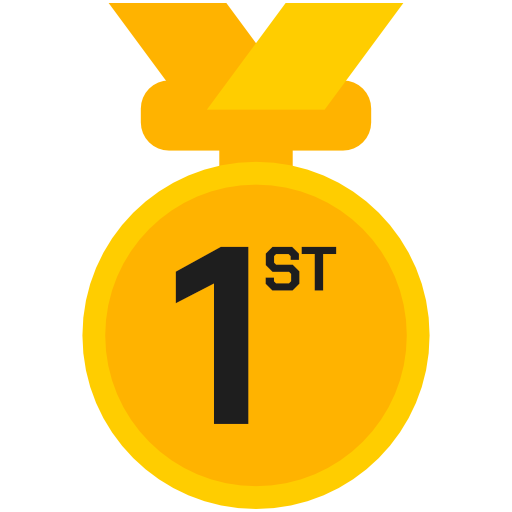
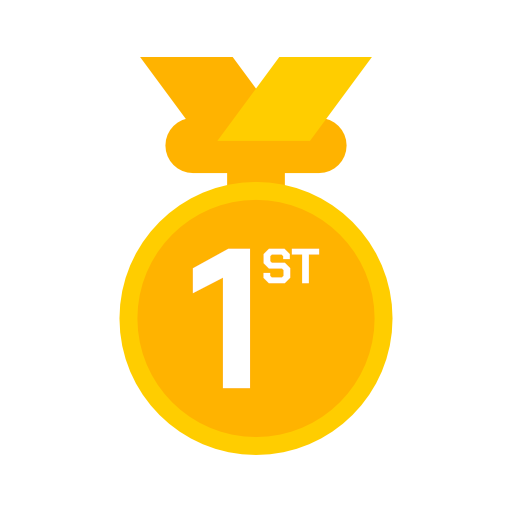
Created achievement for completing an exercise for the first time

diff --git a/hooks/useUpdateCurrentWorkoutAchievements.ts b/hooks/useUpdateCurrentWorkoutAchievements.ts
@@ -1,77 +1,87 @@
-import ExercisePerformanceData from "@/interfaces/ExercisePerformanceData"
-import useCurrentWorkoutStore from "./useCurrentWorkoutStore";
 import { AchievementType } from "@/enums/achievement-type";
-import useCalculateMaxes from "./useCalculateMaxes";
-import { storage } from "@/storage";
 import ExerciseDefinition from "@/interfaces/ExerciseDefinition";
+import ExercisePerformanceData from "@/interfaces/ExercisePerformanceData";
+import useCalculateMaxes from "./useCalculateMaxes";
 import useCalculateVolume from "./useCalculateVolume";
+import useCurrentWorkoutStore from "./useCurrentWorkoutStore";
+import useStorage from "./useStorage";
 
 
 export default function useUpdateCurrentWorkoutAchievements() {
-    const calculateMaxes = useCalculateMaxes();
-    const calculateVolume = useCalculateVolume();
-    const addAchievement = useCurrentWorkoutStore(state => state.addAchievement);
+  const calculateMaxes = useCalculateMaxes();
+  const calculateVolume = useCalculateVolume();
+  const addAchievement = useCurrentWorkoutStore(state => state.addAchievement);
+  const { fetchFromStorage } = useStorage();
 
-    const updateCurrentWorkoutAchievements = (performanceThisSession: ExercisePerformanceData) => {
-        const exerciseDataString = storage.getString(`data_exercises`);
-        if (!exerciseDataString) {
-            return;
-        }
-
-        const exercises = JSON.parse(exerciseDataString) as ExerciseDefinition[];
-        const currentExercise = exercises.find(exercise => exercise.id === performanceThisSession.exerciseId);
-        
-        if (!currentExercise) {
-            return;
-        }
-
-        const [sessionOneRepMaxInKg, sessionEstimated1rmInKg] = calculateMaxes(performanceThisSession, 'kg');
-
-        const currentTimestamp = Date.now();
-
-        if (sessionOneRepMaxInKg > (currentExercise.oneRepMaxInKg ?? 0)) {
-            addAchievement({
-                type: AchievementType.OneRepMax,
-                exerciseId: performanceThisSession.exerciseId,
-                value: {
-                    weight: sessionOneRepMaxInKg
-                },
-                previousValue: {
-                    weight: currentExercise.oneRepMaxInKg ?? 0
-                },
-                timestamp: currentTimestamp
-            });
-        }
-
-        if (sessionEstimated1rmInKg > (currentExercise.estimatedOneRepMaxInKg ?? 0)) {
-            addAchievement({
-                type: AchievementType.EstimatedOneRepMax,
-                exerciseId: performanceThisSession.exerciseId,
-                value: {
-                    weight: sessionEstimated1rmInKg
-                },
-                previousValue: {
-                    weight: currentExercise.estimatedOneRepMaxInKg ?? 0
-                },
-                timestamp: currentTimestamp
-            });
-        }
-
-        const totalVolumeInKg = calculateVolume(performanceThisSession.sets, 'kg');
-        if (totalVolumeInKg > (currentExercise.maxVolumeInKg ?? 0)) {
-            addAchievement({
-                type: AchievementType.ExerciseVolume,
-                exerciseId: performanceThisSession.exerciseId,
-                value: {
-                    weight: totalVolumeInKg
-                },
-                previousValue: {
-                    weight: currentExercise.maxVolumeInKg ?? 0
-                },
-                timestamp: currentTimestamp
-            });
-        }
+  const updateCurrentWorkoutAchievements = (performanceThisSession: ExercisePerformanceData) => {
+    const exercises = fetchFromStorage<ExerciseDefinition[]>('data_exercises');
+    if (!exercises) {
+      return;
     }
 
-    return updateCurrentWorkoutAchievements
+    const currentExercise = exercises.find(exercise => exercise.id === performanceThisSession.exerciseId);
+
+    if (!currentExercise) {
+      return;
+    }
+
+    const [sessionOneRepMaxInKg, sessionEstimated1rmInKg] = calculateMaxes(performanceThisSession, 'kg');
+
+    const currentTimestamp = Date.now();
+
+    if (sessionOneRepMaxInKg > (currentExercise.oneRepMaxInKg ?? 0)) {
+      addAchievement({
+        type: AchievementType.OneRepMax,
+        exerciseId: performanceThisSession.exerciseId,
+        value: {
+          weight: sessionOneRepMaxInKg
+        },
+        previousValue: {
+          weight: currentExercise.oneRepMaxInKg ?? 0
+        },
+        timestamp: currentTimestamp
+      });
+    }
+
+    if (currentExercise.estimatedOneRepMaxInKg !== undefined && currentExercise.maxVolumeInKg !== undefined) {
+      if (sessionEstimated1rmInKg > (currentExercise.estimatedOneRepMaxInKg ?? 0)) {
+        addAchievement({
+          type: AchievementType.EstimatedOneRepMax,
+          exerciseId: performanceThisSession.exerciseId,
+          value: {
+            weight: sessionEstimated1rmInKg
+          },
+          previousValue: {
+            weight: currentExercise.estimatedOneRepMaxInKg ?? 0
+          },
+          timestamp: currentTimestamp
+        });
+      }
+
+      const totalVolumeInKg = calculateVolume(performanceThisSession.sets, 'kg');
+      if (totalVolumeInKg > (currentExercise.maxVolumeInKg ?? 0)) {
+        addAchievement({
+          type: AchievementType.ExerciseVolume,
+          exerciseId: performanceThisSession.exerciseId,
+          value: {
+            weight: totalVolumeInKg
+          },
+          previousValue: {
+            weight: currentExercise.maxVolumeInKg ?? 0
+          },
+          timestamp: currentTimestamp
+        });
+      }
+    } else {
+      addAchievement({
+        type: AchievementType.FirstTime,
+        exerciseId: performanceThisSession.exerciseId,
+        value: {},
+        previousValue: {},
+        timestamp: currentTimestamp
+      });
+    }
+  }
+
+  return updateCurrentWorkoutAchievements
 }

diff --git a/app/(tabs)/workout/TrackExercisePage.tsx b/app/(tabs)/workout/TrackExercisePage.tsx
@@ -12,7 +12,6 @@ import useCurrentWorkoutStore from '@/hooks/useCurrentWorkoutStore';
 import useFetchAllExercises from '@/hooks/useFetchAllExercises';
 import useFetchAssociatedGoalsForExercise from '@/hooks/useFetchAssociatedGoalsForExercise';
 import useStorage from '@/hooks/useStorage';
-import useUpdateCurrentWorkoutAchievements from '@/hooks/useUpdateCurrentWorkoutAchievements';
 import useUpdateExerciseMaxes from '@/hooks/useUpdateExerciseMaxes';
 import useUpsertGoal from '@/hooks/useUpsertGoal';
 import useUserPreferences from '@/hooks/useUserPreferences';
@@ -20,10 +19,10 @@ import ExerciseDefinition from '@/interfaces/ExerciseDefinition';
 import ExercisePerformanceData from '@/interfaces/ExercisePerformanceData';
 import GoalDefinition from '@/interfaces/GoalDefinition';
 import UserPreferences from '@/interfaces/UserPreferences';
-import AntDesign from '@expo/vector-icons/AntDesign';
 import { useIsFocused } from '@react-navigation/native';
+import { LinearGradient } from 'expo-linear-gradient';
 import { router, useLocalSearchParams } from 'expo-router';
-import React, { useCallback, useEffect, useState } from 'react';
+import React, { useEffect, useState } from 'react';
 import { ScrollView, Text, TextInput, View } from 'react-native';
 
 const TrackExercisePage = () => {
@@ -44,7 +43,6 @@ const TrackExercisePage = () => {
   const currentWorkoutPerformanceData = useCurrentWorkoutStore(state => state.performanceData);
 
   const updateExerciseMaxes = useUpdateExerciseMaxes();
-  const updateCurrentWorkoutAchievements = useUpdateCurrentWorkoutAchievements();
 
   const [associatedGoals, setAssociatedGoals] = useState<GoalDefinition[]>([]);
   const fetchAssociatedGoalsForExercise = useFetchAssociatedGoalsForExercise();
@@ -134,7 +132,6 @@ const TrackExercisePage = () => {
     };
 
     addPerformanceToCurrentWorkout(workoutData);
-    // updateCurrentWorkoutAchievements(workoutData);
 
     associatedGoals.forEach(goal => {
       const newGoalPercentage = calculateGoalPerformance(goal);
@@ -150,7 +147,7 @@ const TrackExercisePage = () => {
     });
 
     if (!currentWorkout) {
-      updateExerciseMaxes(selectedExercise.id, workoutData);
+      updateExerciseMaxes(workoutData);
 
       const existingData = fetchFromStorage<ExercisePerformanceData[]>(`data_exercise_${selectedExercise.id}`) ?? [];
       existingData.push(workoutData);
@@ -219,15 +216,15 @@ const TrackExercisePage = () => {
       </PopUp>
 
       {currentWorkout &&
-        <View className='flex-row w-full items-center justify-center absolute bottom-4 z-10'>
+        <LinearGradient className='flex-row w-full items-center justify-center absolute bottom-0 py-8 z-10' colors={['#00000000', '#22226699']}>
           <GradientPressable
-            className='w-3/4'
+            className='w-[80%]'
             style='default'
             onPress={saveWorkout}
           >
             <Text className="text-white text-lg text-center my-2">Exercise Finished</Text>
           </GradientPressable>
-        </View>
+        </LinearGradient>
       }
 
       <ScrollView className="flex-1 px-4 bg-primary" showsVerticalScrollIndicator={false} contentContainerStyle={{ paddingBottom: 32 }}>

diff --git a/app/(tabs)/workout/WorkoutCompletedPage.tsx b/app/(tabs)/workout/WorkoutCompletedPage.tsx
@@ -7,6 +7,7 @@ import useCurrentWorkoutStore from '@/hooks/useCurrentWorkoutStore';
 import useStatusBarStore from '@/hooks/useStatusBarStore';
 import useStorage from '@/hooks/useStorage';
 import useUpdateCurrentWorkoutAchievements from '@/hooks/useUpdateCurrentWorkoutAchievements';
+import useUpdateExerciseMaxes from '@/hooks/useUpdateExerciseMaxes';
 import Achievement from '@/interfaces/Achievement';
 import ExerciseDefinition from '@/interfaces/ExerciseDefinition';
 import SimpleLineIcons from '@expo/vector-icons/SimpleLineIcons';
@@ -52,7 +53,6 @@ const testAchievements: Achievement[] = [
 ];
 
 export default function WorkoutCompletedPage() {
-  const isFocused = useIsFocused();
 
   const achievements = useCurrentWorkoutStore(state => state.achievements);
   // const achievements = testAchievements;
@@ -67,11 +67,12 @@ export default function WorkoutCompletedPage() {
   const removeStatusBarNode = useStatusBarStore(state => state.removeNode);
 
   const [allExercises, setAllExercises] = useState<ExerciseDefinition[]>([]);
-  const { fetchFromStorage } = useStorage();
+  const { fetchFromStorage, setInStorage } = useStorage();
 
   const [exerciseIdToVolumeMap, setExerciseIdToVolumeMap] = useState(new Map<string, number>());
 
   const calculateVolume = useCalculateVolume();
+  const updateExerciseMaxes = useUpdateExerciseMaxes();
 
   useEffect(() => {
     setAllExercises(fetchFromStorage<ExerciseDefinition[]>('data_exercises') || []);
@@ -82,7 +83,7 @@ export default function WorkoutCompletedPage() {
       updateCurrentWorkoutAchievements(performance);
     });
     setExerciseIdToVolumeMap(exerciseIdToVolume);
-  }, []);
+  }, [performanceData]);
 
   const getExerciseNameFromId = (exerciseId: string) => {
     const exercise = allExercises.find(ex => ex.id === exerciseId);
@@ -117,6 +118,13 @@ export default function WorkoutCompletedPage() {
   }
 
   const handleGoToDashboard = () => {
+    const allAchievements = fetchFromStorage<Achievement[]>('data_achievements') || [];
+    setInStorage('data_achievements', [...allAchievements, ...achievements]);
+
+    performanceData.forEach(performance => {
+      updateExerciseMaxes(performance);
+    })
+
     resetCurrentWorkout();
     removeStatusBarNode();
     router.dismissAll();

diff --git a/hooks/useUpdateExerciseMaxes.ts b/hooks/useUpdateExerciseMaxes.ts
@@ -9,14 +9,14 @@ export default function useUpdateExerciseMaxes() {
     const calculateMaxes = useCalculateMaxes();
     const calculateVolume = useCalculateVolume();
 
-    const updateExerciseMaxes = (exerciseId: string, performanceThisSession: ExercisePerformanceData) => {
+    const updateExerciseMaxes = (performanceThisSession: ExercisePerformanceData) => {
         const exerciseDataString = storage.getString(`data_exercises`);
         if (!exerciseDataString) {
             return;
         }
 
         const exercises = JSON.parse(exerciseDataString) as ExerciseDefinition[];
-        const currentExercise = exercises.find(exercise => exercise.id === exerciseId);
+        const currentExercise = exercises.find(exercise => exercise.id === performanceThisSession.exerciseId);
         
         if (!currentExercise) {
             return;
@@ -25,13 +25,19 @@ export default function useUpdateExerciseMaxes() {
         const [newOneRepMaxInKg, newEstimated1rmInKg] = calculateMaxes(performanceThisSession, 'kg');
         const volumeInKg = calculateVolume(performanceThisSession.sets, 'kg');
 
-        if (newEstimated1rmInKg > (currentExercise.estimatedOneRepMaxInKg ?? 0))
-            currentExercise.estimatedOneRepMaxInKg = newEstimated1rmInKg;
+        if (currentExercise.estimatedOneRepMaxInKg === undefined)
+            currentExercise.estimatedOneRepMaxInKg = 0;
 
+        if (currentExercise.maxVolumeInKg === undefined)
+            currentExercise.maxVolumeInKg = 0;
+        
         if (newOneRepMaxInKg > (currentExercise.oneRepMaxInKg ?? 0))
             currentExercise.oneRepMaxInKg = newOneRepMaxInKg;
 
-        if (volumeInKg > (currentExercise.maxVolumeInKg ?? 0))
+        if (newEstimated1rmInKg > currentExercise.estimatedOneRepMaxInKg)
+            currentExercise.estimatedOneRepMaxInKg = newEstimated1rmInKg;
+
+        if (volumeInKg > currentExercise.maxVolumeInKg)
             currentExercise.maxVolumeInKg = volumeInKg;
 
         // Update the exercise data in storage

diff --git a/components/shared/AchievementCard.tsx b/components/shared/AchievementCard.tsx
@@ -16,11 +16,12 @@ export type AchievementCardProps = {
 };
 
 const achievementTitles: { [key in AchievementType]: string } = {
-  [AchievementType.OneRepMax]: 'Heavy Hauler',
-  [AchievementType.EstimatedOneRepMax]: 'Could-Be Heavy Hauler',
+  [AchievementType.OneRepMax]: 'Titan',
+  [AchievementType.EstimatedOneRepMax]: 'Theoretical Titan',
   [AchievementType.TotalVolume]: 'Workhorse',
   [AchievementType.ExerciseVolume]: 'Upgraded Machinery',
   [AchievementType.PersonalRecord]: 'PB',
+  [AchievementType.FirstTime]: 'First Timer',
 }
 
 export default function AchievementCard({ className, achievement }: AchievementCardProps) {
@@ -53,8 +54,9 @@ export default function AchievementCard({ className, achievement }: AchievementC
           <Text className='text-txt-primary'>{achievement.type}</Text>
           <Feather name="trending-up" size={20} color="#068bec" />
         </View>
-        <AchievementBadge type={achievement.type} mainText={roundHalf(achievement.value.weight)} smallText='KG' />
+        <AchievementBadge type={achievement.type} mainText={roundHalf(achievement.value.weight)} smallText={achievement.value.weight ? 'KG' : ''} />
         <Text className='text-txt-primary font-semibold text-xl'>{exerciseName}</Text>
+        
         <View className='flex-row items-center gap-2'>
           <Text className='text-txt-secondary'>{roundHalf(achievement.previousValue.weight)} kg</Text>
           <AntDesign name="arrowright" size={14} color="#068bec" />

diff --git a/app/(tabs)/dashboard/index.tsx b/app/(tabs)/dashboard/index.tsx
@@ -32,13 +32,16 @@ export default function HomeScreen() {
   return (
     <ScrollView className='bg-primary' showsVerticalScrollIndicator={false}>
       <View className='flex flex-col items-center px-4'>
-        <TouchableOpacity
-          className="bg-card px-2 py-2 rounded-lg mt-4 self-end flex-row items-center gap-2"
+        <GradientPressable
+          style='gray'
+          className="bg-card mt-4 self-end"
           onPress={() => router.push('/(tabs)/dashboard/SettingsPage')}
         >
-          <FontAwesome5 name="cog" size={12} color='white' />
-          <Text className="text-txt-primary text-center font-semibold">Settings</Text>
-        </TouchableOpacity>
+          <View className='flex-row items-center gap-2 py-1 px-2'>
+            <FontAwesome5 name="cog" size={12} color='white' />
+            <Text className="text-txt-primary text-center font-semibold">Settings</Text>
+          </View>
+        </GradientPressable>
         <Text className='text-txt-primary text-4xl font-bold mt-12'>Gymple.</Text>
         <Text className='text-txt-secondary mb-12'>The no-nonsense workout tracker.</Text>
         <GradientPressable

diff --git a/components/shared/AchievementBadge.tsx b/components/shared/AchievementBadge.tsx
@@ -15,6 +15,7 @@ const imageSources: { [key in AchievementType]: any } = {
   [AchievementType.TotalVolume]: require('../../assets/images/badge_volume.png'),
   [AchievementType.ExerciseVolume]: require('../../assets/images/badge_volume.png'),
   [AchievementType.PersonalRecord]: require('../../assets/images/badge_volume.png'),
+  [AchievementType.FirstTime]: require('../../assets/images/badge_1st_timer.png'),
 }
 
 const offsetPercentageFromTop: { [key in AchievementType]: number } = {
@@ -23,6 +24,7 @@ const offsetPercentageFromTop: { [key in AchievementType]: number } = {
   [AchievementType.TotalVolume]: 42,
   [AchievementType.ExerciseVolume]: 42,
   [AchievementType.PersonalRecord]: 55,
+  [AchievementType.FirstTime]: 0,
 }
 
 export default function AchievementBadge({ className, type, mainText, smallText, small }: AchievementBadgeProps) {

diff --git a/components/shared/PopUp.tsx b/components/shared/PopUp.tsx
@@ -1,6 +1,6 @@
 import React, { useEffect } from 'react';
 import { View, TouchableWithoutFeedback, Text } from 'react-native';
-import Animated, { useSharedValue, useAnimatedStyle, withSpring } from 'react-native-reanimated';
+import Animated, { useSharedValue, useAnimatedStyle, withSpring, withTiming } from 'react-native-reanimated';
 import GradientPressable from './GradientPressable';
 import { LinearGradient } from 'expo-linear-gradient';
 
@@ -23,7 +23,7 @@ export default function PopUp({ visible, onClose, closeButtonText, children }: P
   }, [visible]);
 
   const animatedStyle = useAnimatedStyle(() => ({
-    transform: [{ scale: withSpring(scale.value, {duration: 300}) }],
+    transform: [{ scale: withTiming(scale.value, {duration: 200}) }],
     opacity: scale.value,
   }));
 

diff --git a/enums/achievement-type.ts b/enums/achievement-type.ts
@@ -4,4 +4,5 @@ export enum AchievementType {
     TotalVolume = 'Total Volume',
     ExerciseVolume = 'Exercise Volume',
     PersonalRecord = 'PR',
+    FirstTime = 'First Time Completing Exercise'
 }
